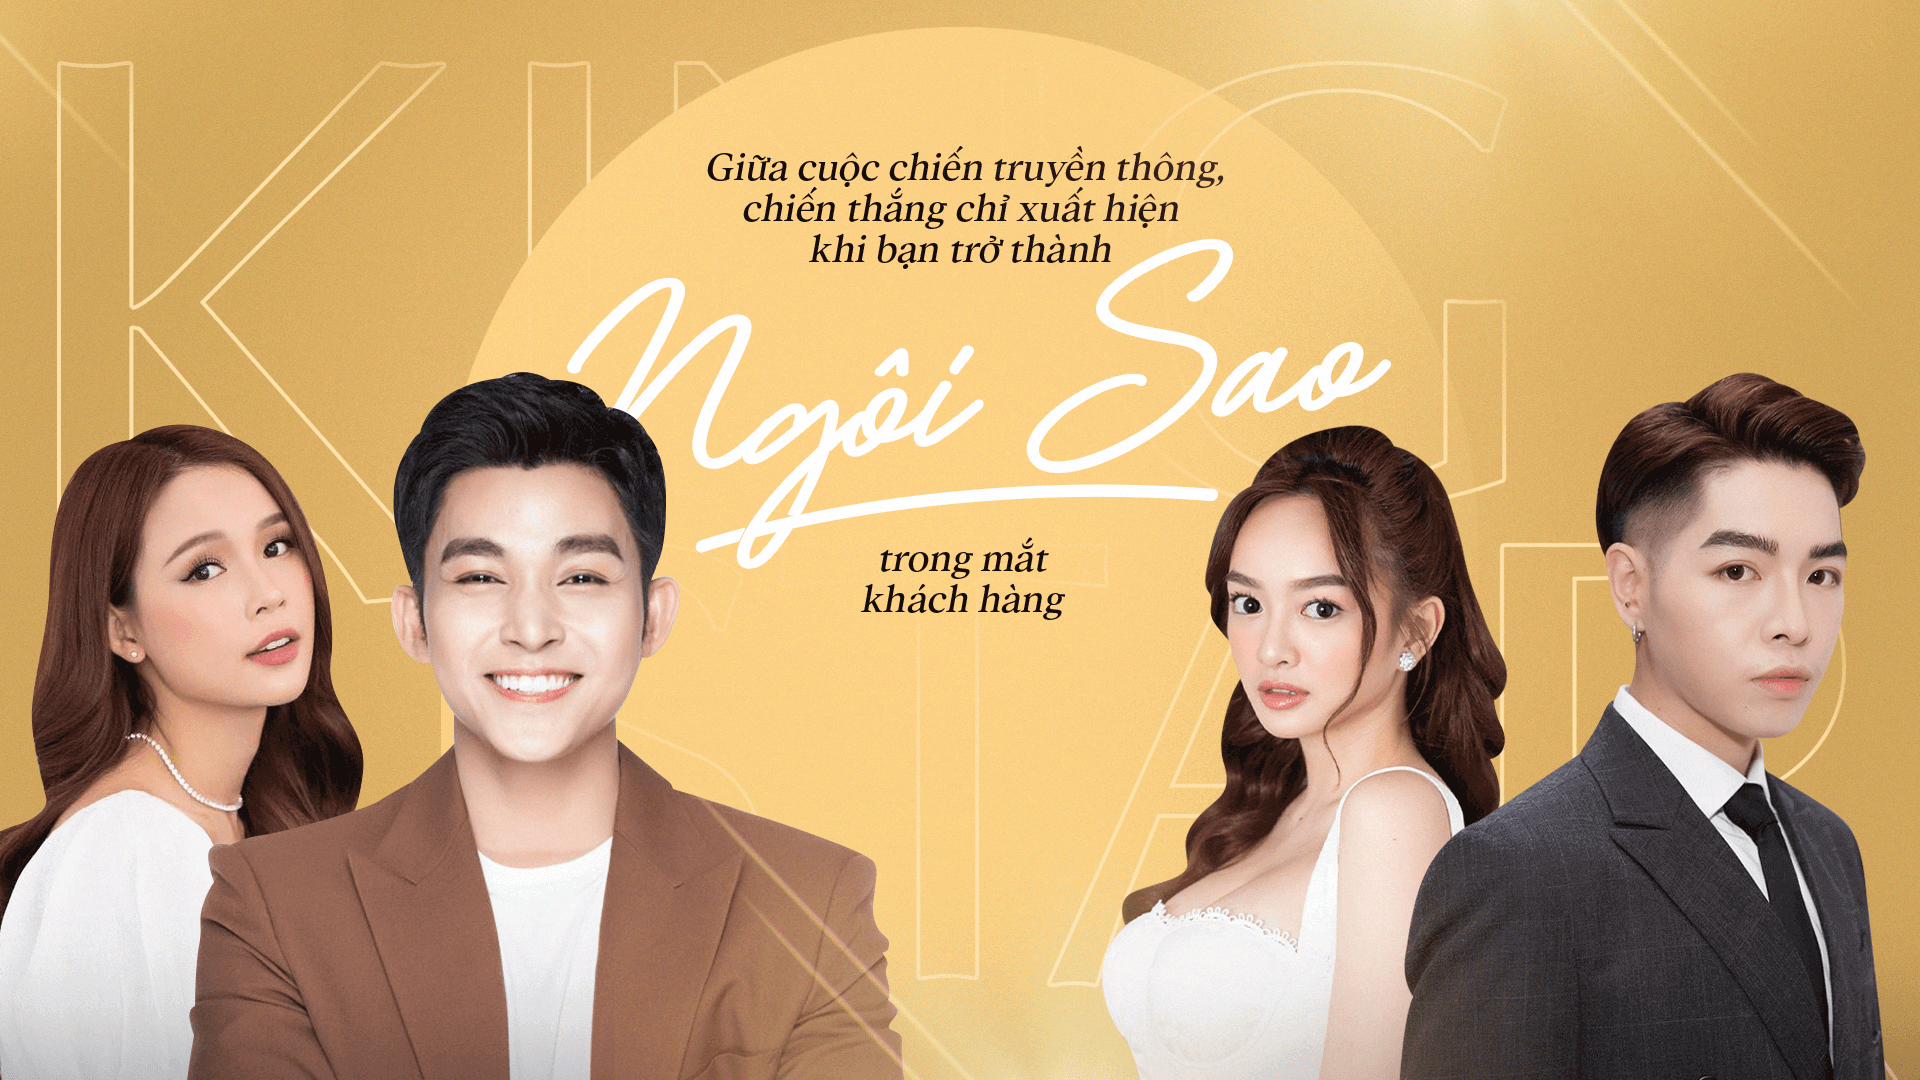
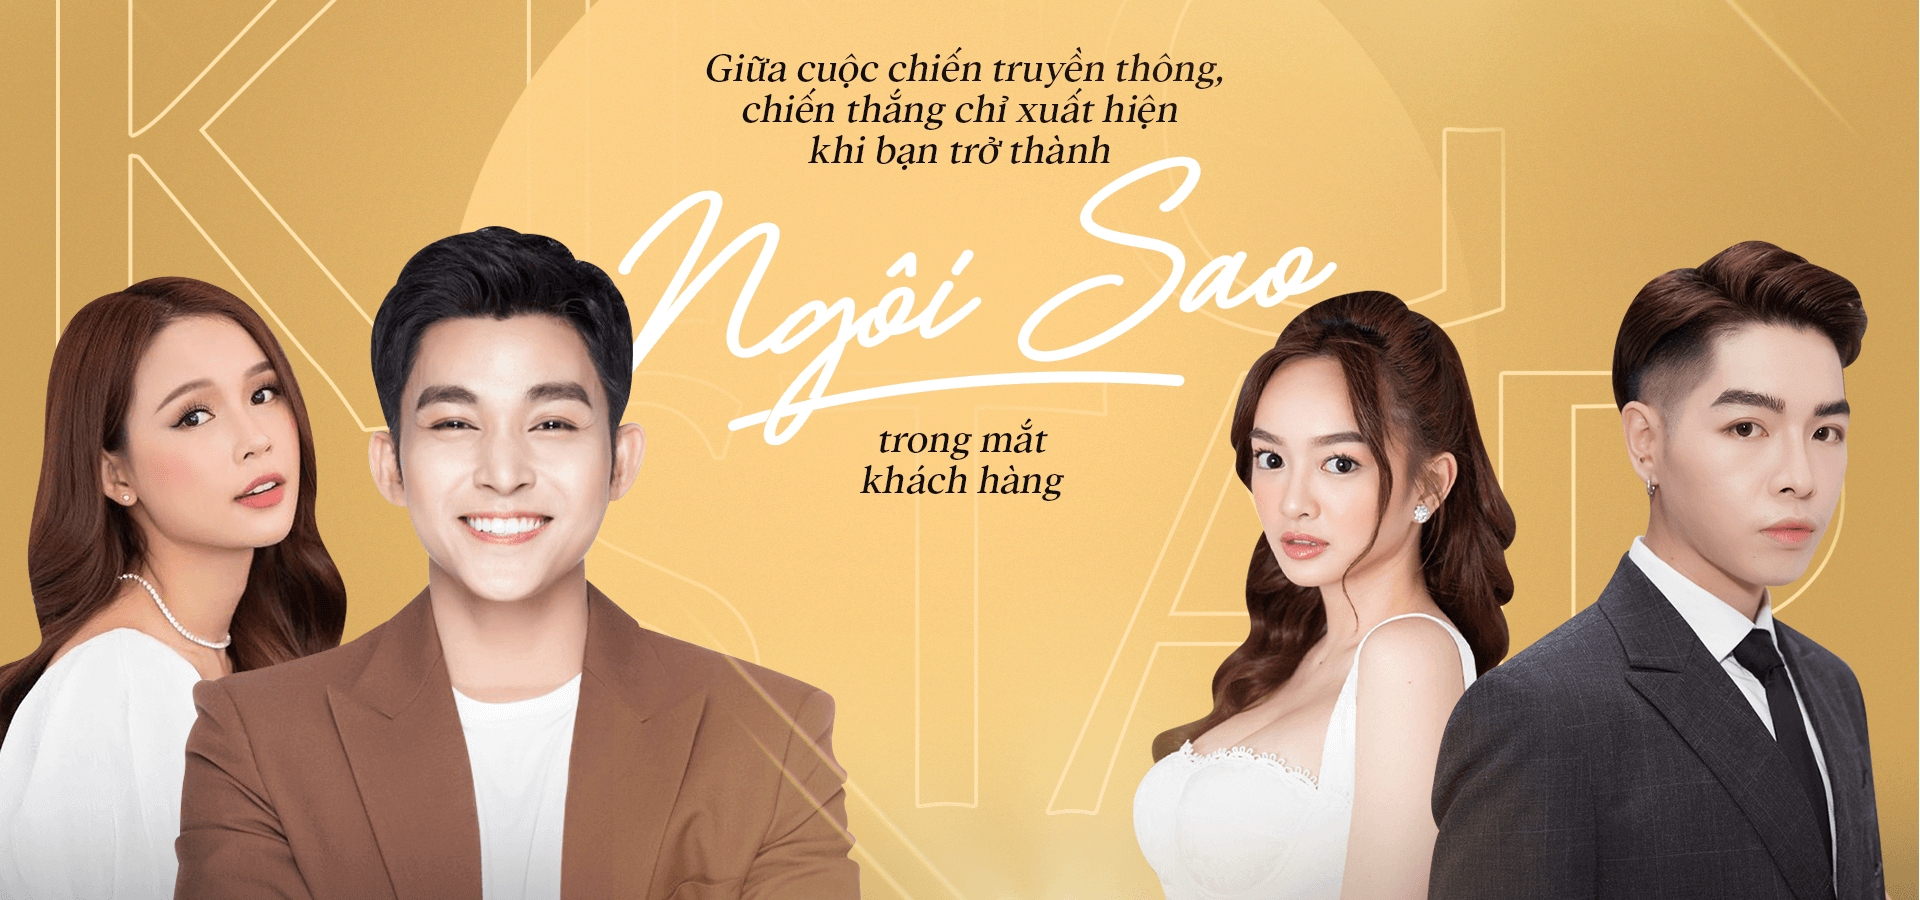
update

diff --git a/website-ver2/assets/css/index.css b/website-ver2/assets/css/index.css
@@ -992,7 +992,7 @@
 .banner-overlay {
   position: absolute;
   left: 30% !important;
-  top: 15% !important;
+  top: 10% !important;
   -webkit-transform: translate(-50%, -50%);
           transform: translate(-50%, -50%);
   width: 30%;

diff --git a/website-ver2/assets/css/_contest.scss b/website-ver2/assets/css/_contest.scss
@@ -7,7 +7,7 @@ $dark-cream: #cea35b;
 .banner-overlay {
     position: absolute;
     left: 30% !important;
-    top: 15% !important;
+    top: 10% !important;
     transform: translate(-50%,-50%);
     width: 30%;
 }
